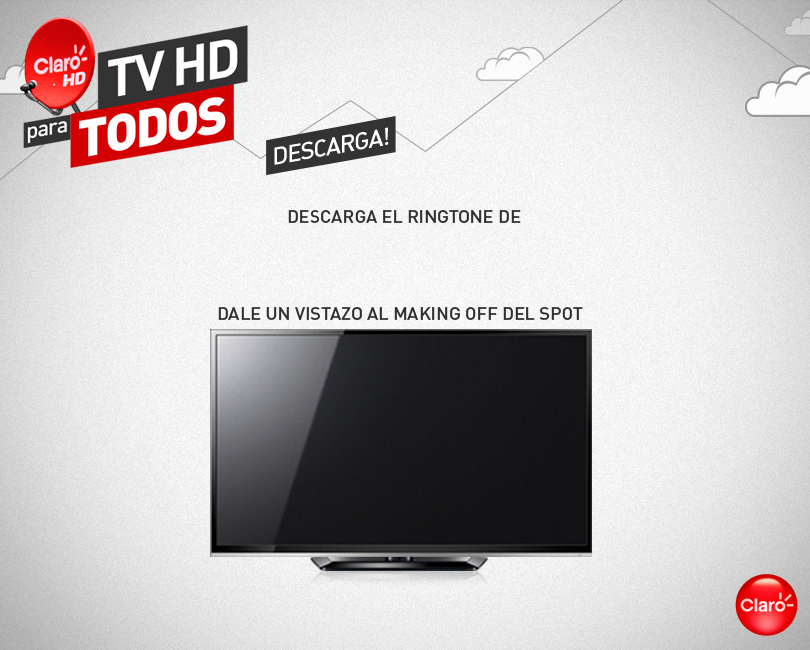
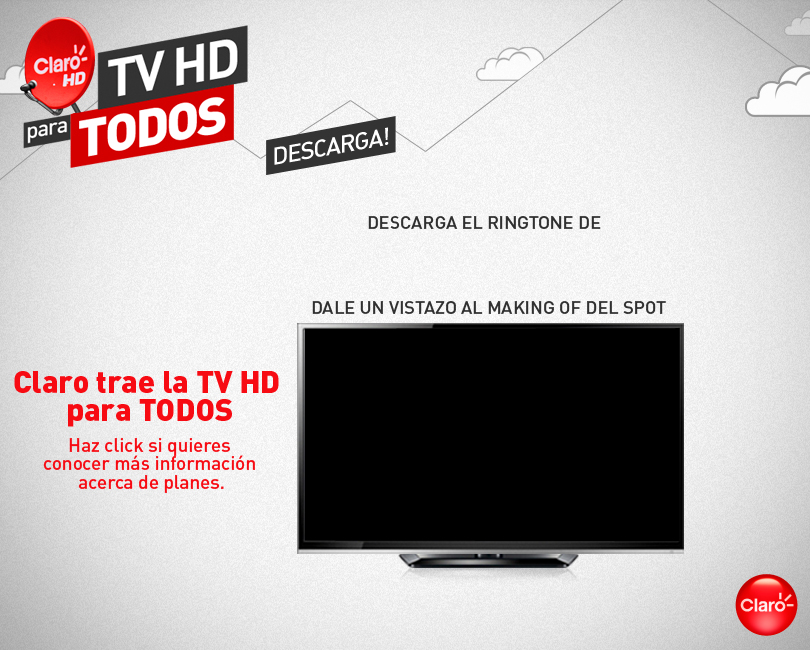
cambio share, parabolica, imagaenes

Changed region(s): [[0.0, 0.4615, 0.8642, 0.8923], [0.3395, 0.3077, 0.7407, 0.3692]]

diff --git a/app/assets/stylesheets/fb_app_claro_ganate_la_parabolica.css b/app/assets/stylesheets/fb_app_claro_ganate_la_parabolica.css
@@ -133,6 +133,19 @@ h3 a:visited {
 	box-shadow: inset 0px 0px 5px 0px rgba(0,0,0,0.21);	
 }
 
+.active2 {
+  background: #de0209;
+  -webkit-box-shadow: inset 0px 0px 5px 0px rgba(0,0,0,0.21);
+  -moz-box-shadow: inset 0px 0px 5px 0px rgba(0,0,0,0.21);
+  box-shadow: inset 0px 0px 5px 0px rgba(0,0,0,0.21);	
+}
+
+#menu li.active2 a:hover{
+  background: #b1b1b1;
+  -webkit-box-shadow: inset 0px 0px 5px 0px rgba(0,0,0,0.21);
+  -moz-box-shadow: inset 0px 0px 5px 0px rgba(0,0,0,0.21);
+  box-shadow: inset 0px 0px 5px 0px rgba(0,0,0,0.21);	
+}
 /*NO FAN*/
 .nofan_video {position: absolute;top: 249px;left: 135px;}
 
@@ -374,17 +387,23 @@ h3 a:visited {
 .para_btn_b {
 	position: absolute;
 	bottom: 17px;
-	left: 239px;
+	left: 334px;
 }
 .para_btn_c {
 	position: absolute;
 	bottom: 17px;
-	left: 411px;
+	left: 500px;
+}
+
+.para_btn_d {
+  position: absolute;
+  bottom: 97px;
+  left: 77px;
 }
 .para_video {
 	position: absolute;
-	top: 336px;
-	left: 216px;	
+  top: 331px;
+  left: 306px;
 }
 .btn_input {
 	border-radius: 5px;
